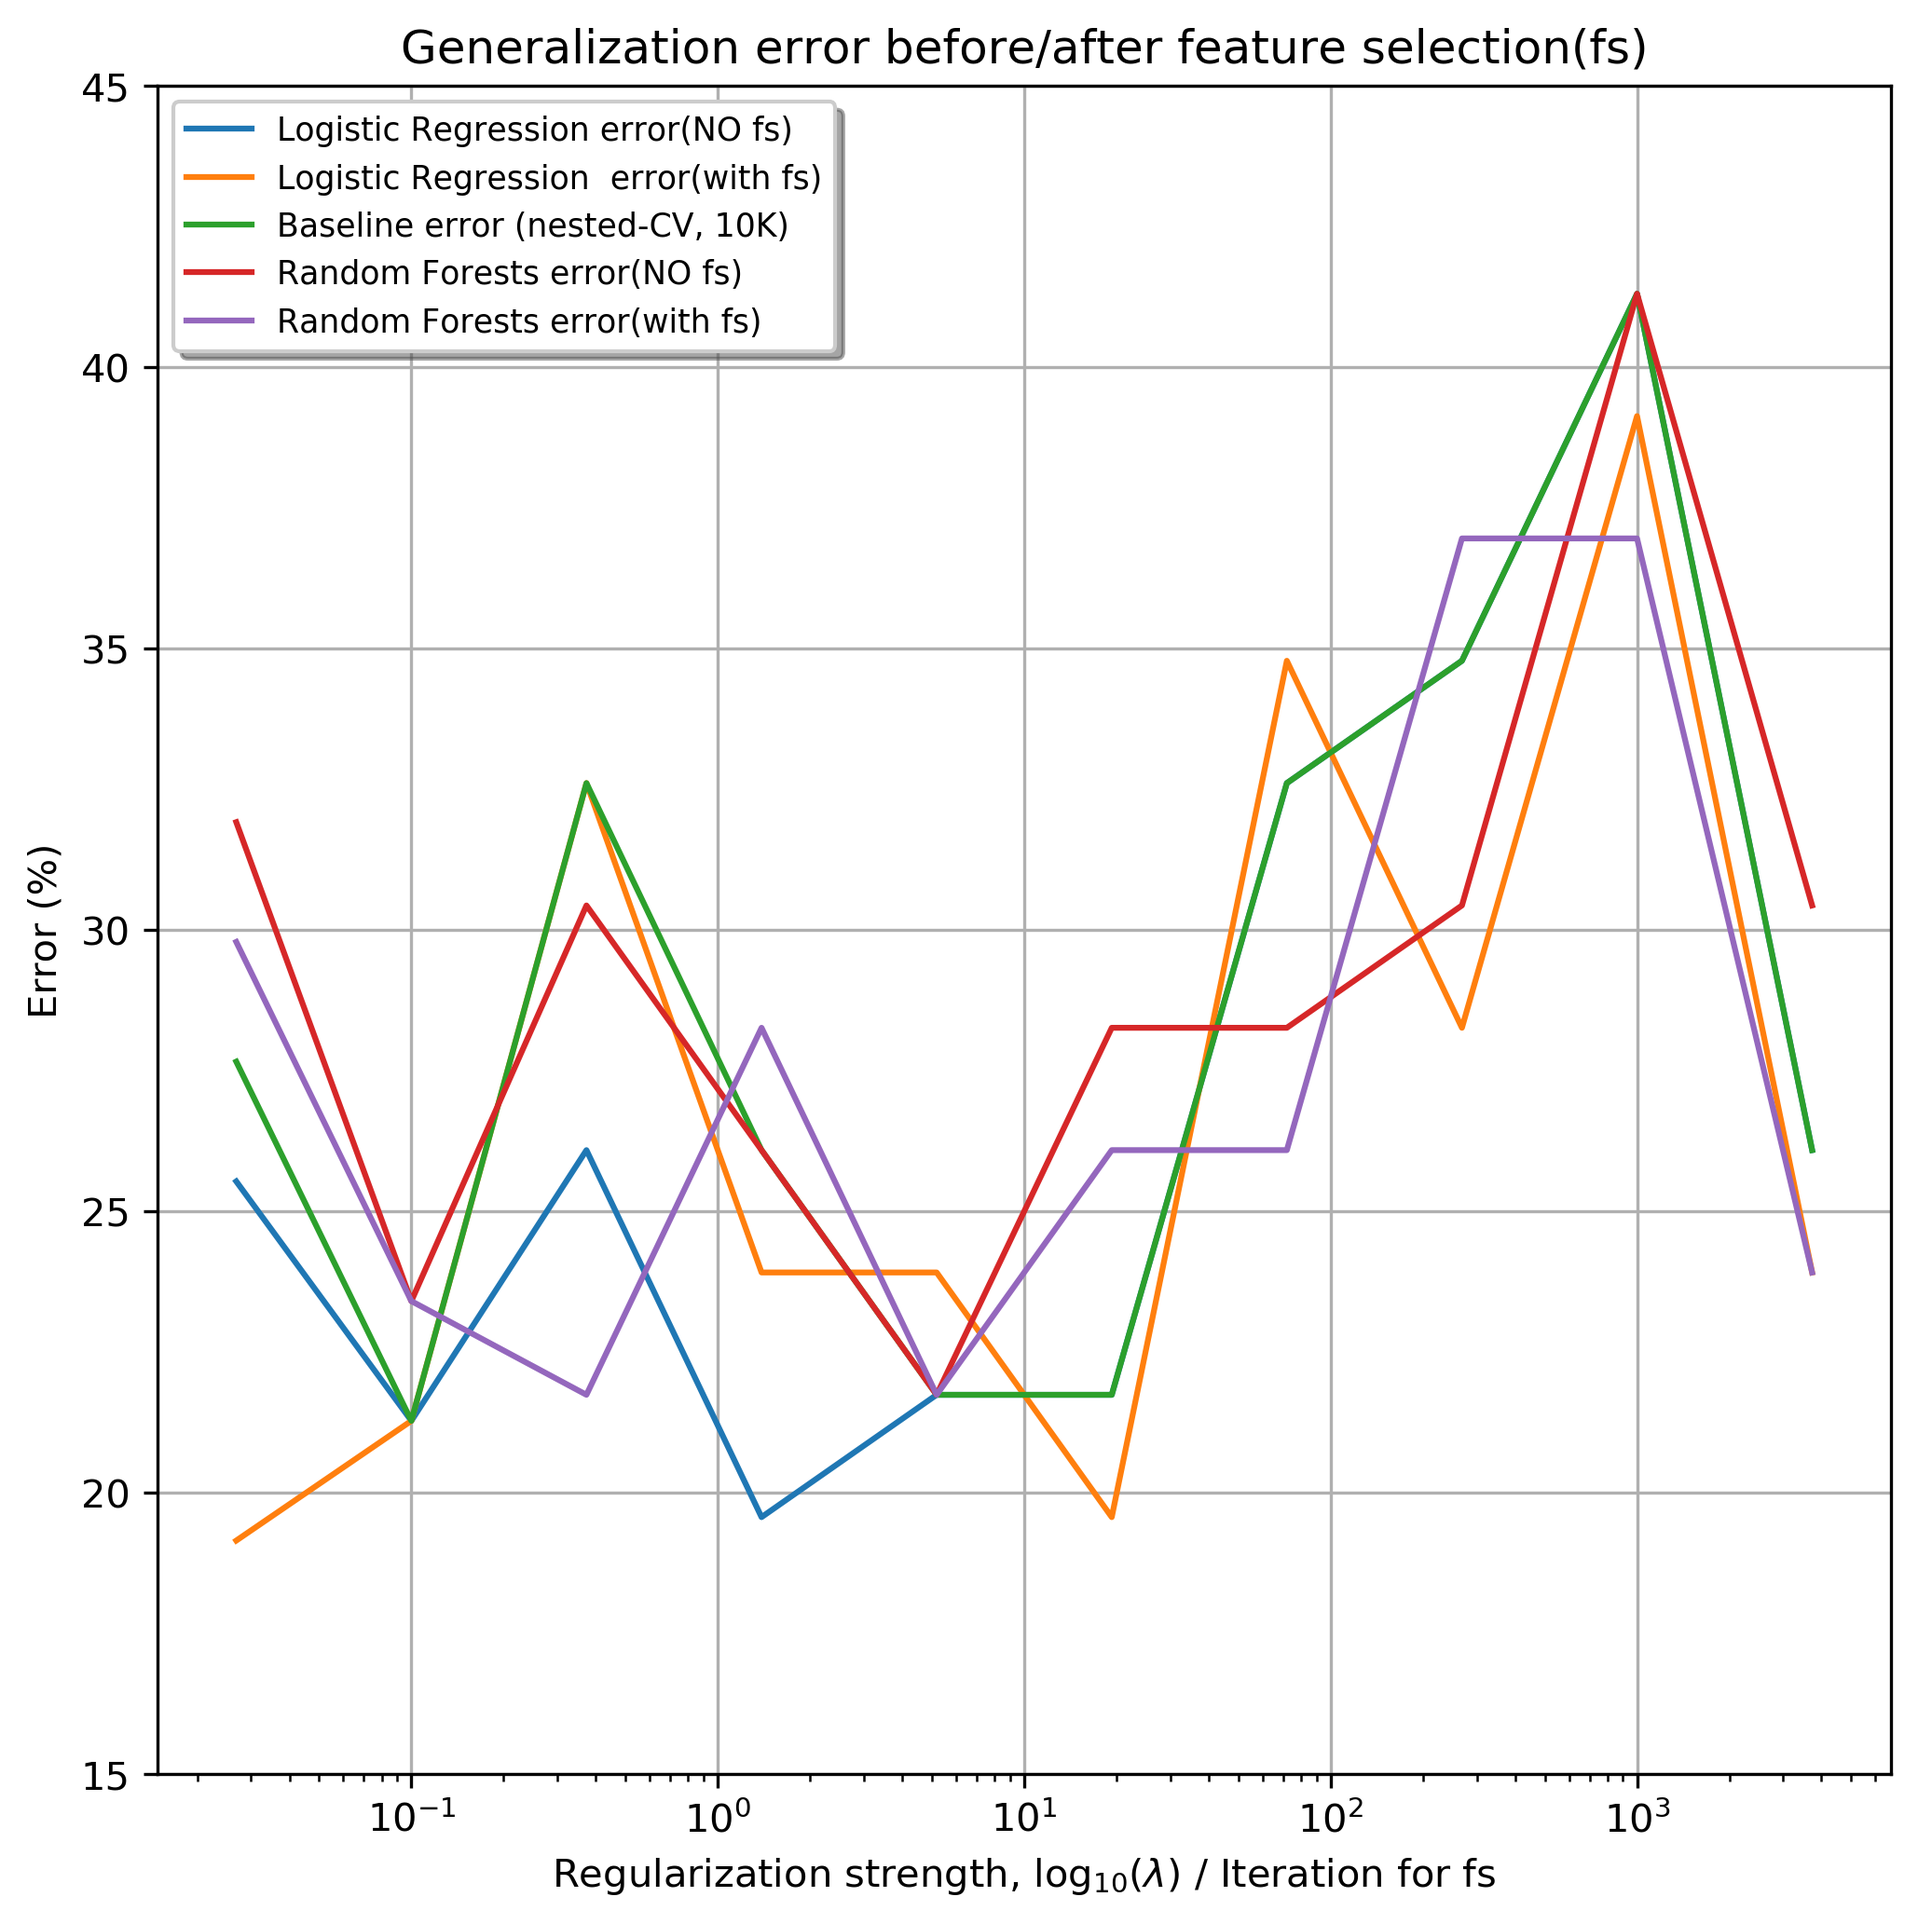
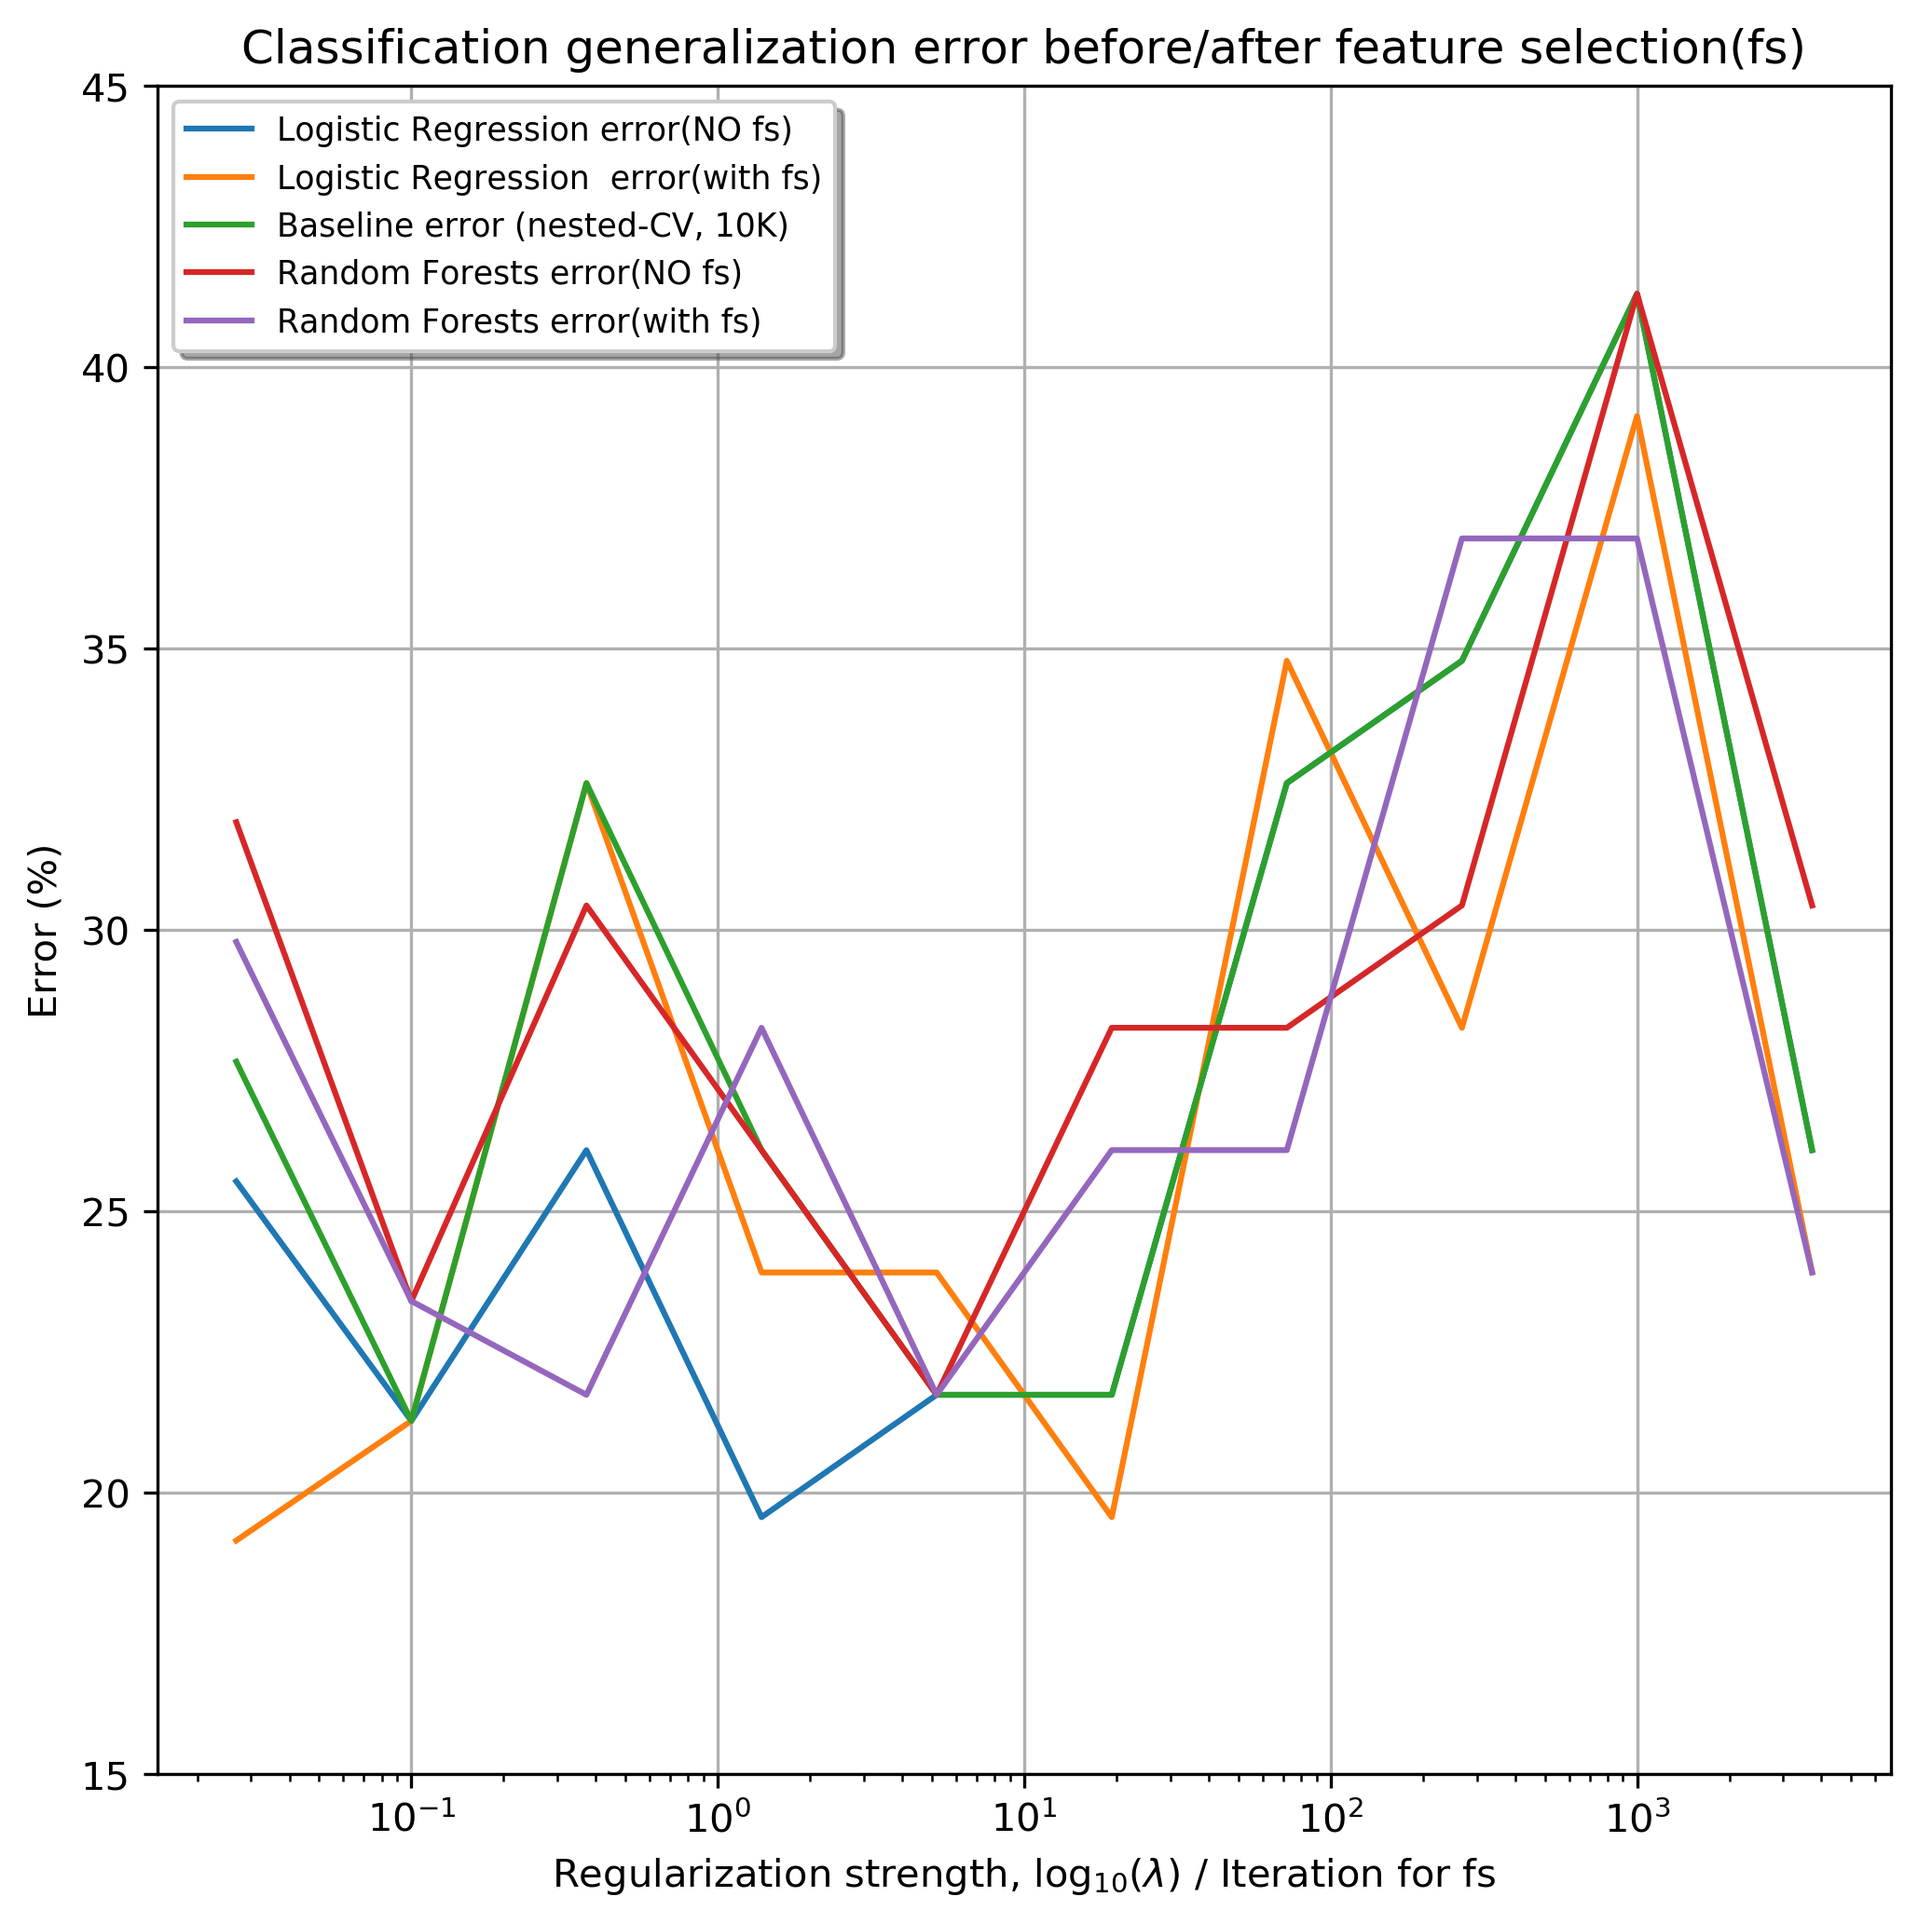
Visual changes

Changed region(s): [[0.1244, 0.0, 0.9329, 0.031]]

diff --git a/Thanos_regression+classification.py b/Thanos_regression+classification.py
@@ -1382,7 +1382,7 @@ plt.semilogx(lambdas[10:50:4], Error_test_rf.mean(1)*100,label='Random Forests e
 #plt.text(1, 10, "Minimum test error: " + str(np.round(np.sqrt(min_error),2)) + ' at 1e' + str(np.round(np.log10(lambdas[min_error_index]),2)))
 plt.xlabel('Regularization strength, $\log_{10}(\lambda)$ / Iteration for fs')
 plt.ylabel('Error (%)')
-plt.title('Generalization error before/after feature selection(fs)')
+plt.title('Classification generalization error before/after feature selection(fs)')
 plt.legend(loc=0,shadow=True, fontsize='small')
 #plt.legend(['Training error','Test error','Test minimum'],loc='upper right')
 plt.ylim([15, 45])
